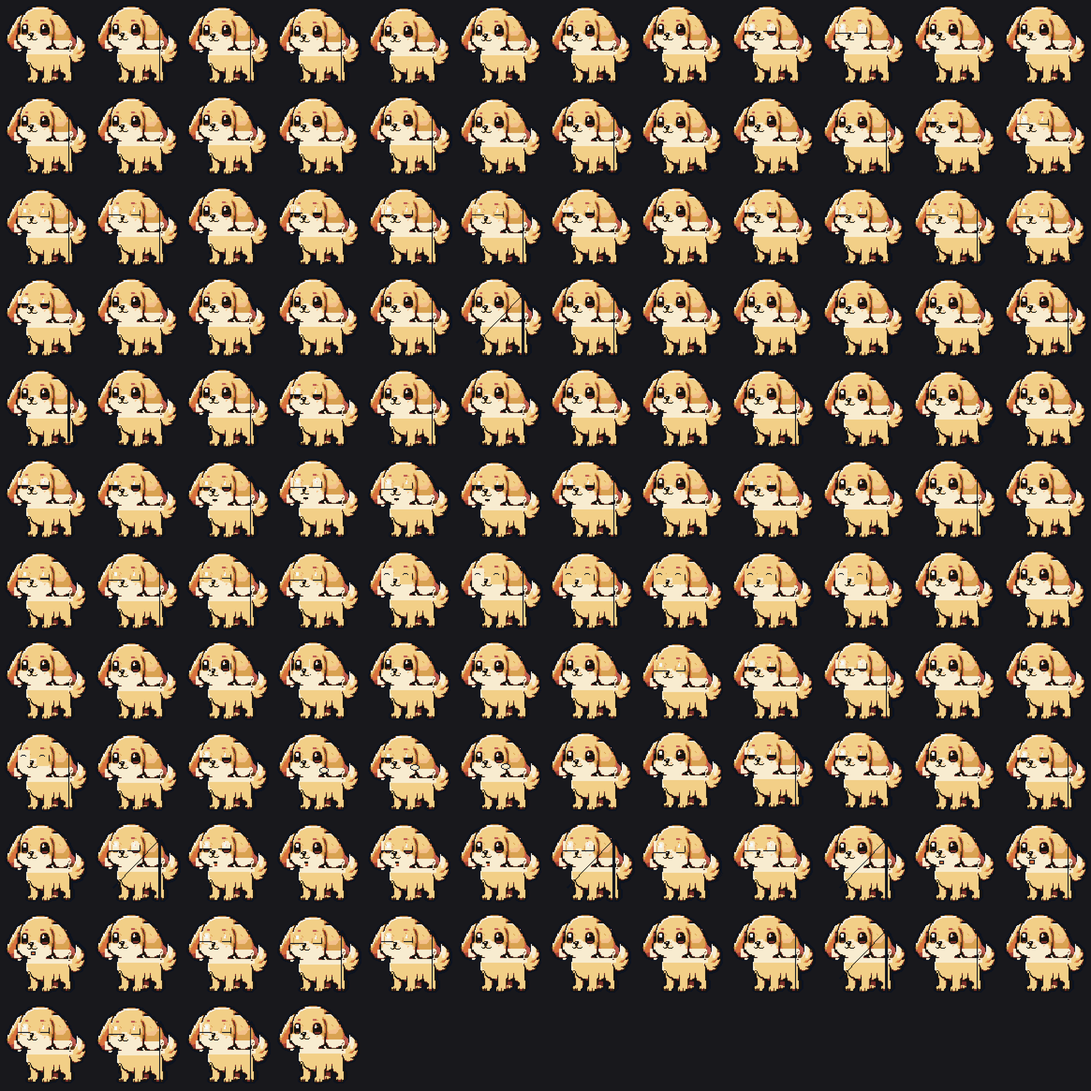
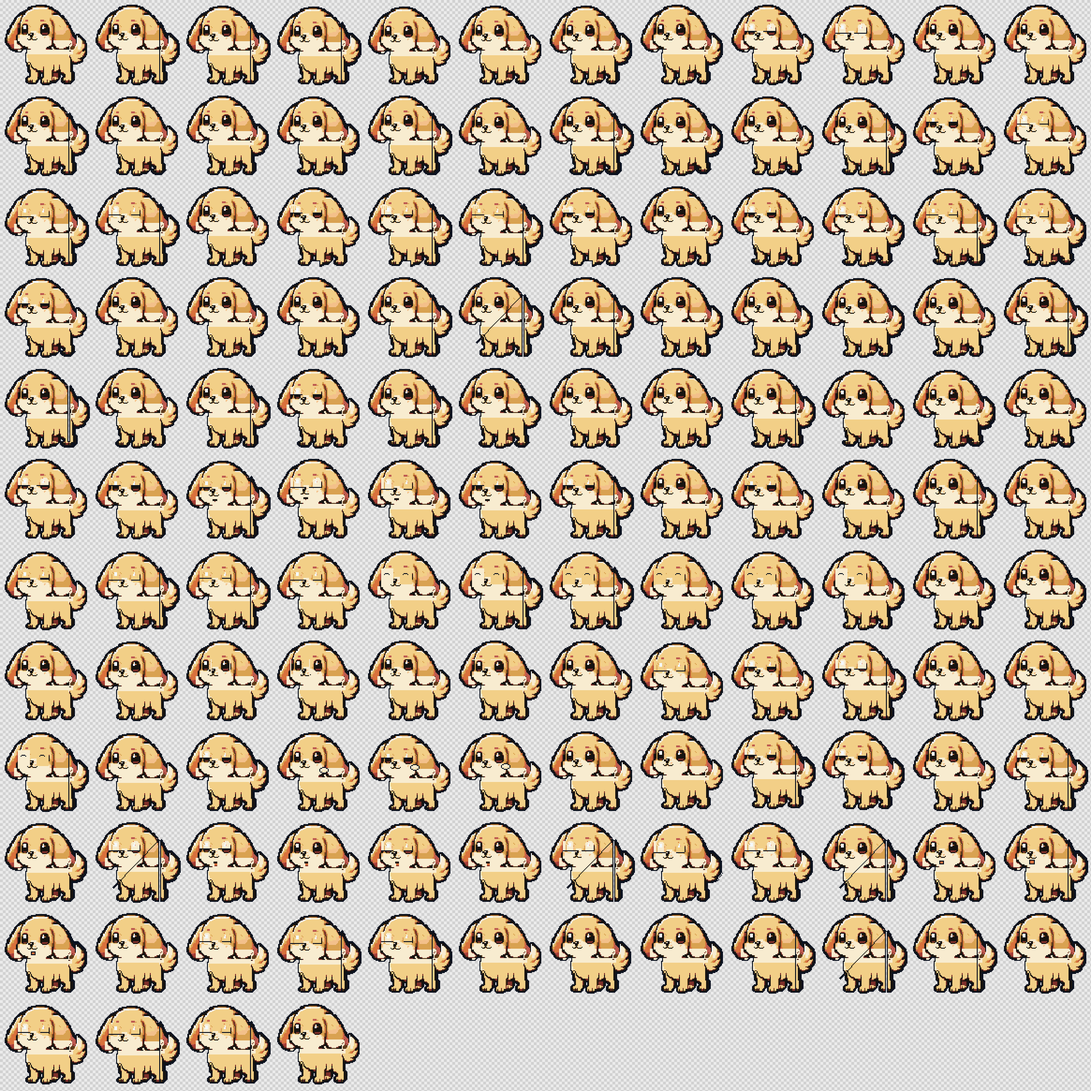
docs(art): QA contact sheets on transparent checkerboard + audit notes
- checkerboard background makes alpha=0 transparency explicit (cat/human/dog/UI)
- audit notes: dog light band, human idle head-only, transparency/black-background findings
- no asset/version change

diff --git a/docs/art/FINAL-ART-QA-2026-11-25.md b/docs/art/FINAL-ART-QA-2026-11-25.md
@@ -23,3 +23,10 @@
 
 - 托盘图标可视化、panic crash 报告真实写盘（需受控触发）。
 - approval pending > 0 的真机 DSH 审批（需要 agent turn + 工具审批）；dsh-famling 的字段可用性见 DSH smoke 记录。
+
+## 2026-11-25 复核（用户反馈后）
+
+- 猫/汀岚/狗的 PNG 均为 **alpha 0/255 透明底**（transparent checker 预览可见）；当前 contact sheet 已改为棋盘格透明底，不再用深色底造成“黑背景”误读。
+- 狗 source art 中有一条纵向浅色胸口/腹部带（红框标注图在本地 audit 目录）；不是透明缺口，也不是 alpha 黑洞。
+- 汀岚 idle 的帧差只覆盖 y≈4–55（头/上身），身体静止；walk/run 帧差覆盖到 y=90（腿/全身）。若需要 idle 全身动，需新增/重绘 idle 动画。
+- native Tauri 窗口为 layered+transparent；黑底若在 app 窗口出现，属于窗口合成/桌面背景问题，不是 PNG 资产。
